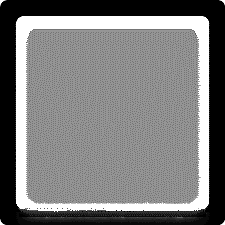
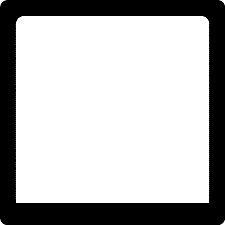
FB-NS-011

diff --git a/View/StartConditionView.xaml b/View/StartConditionView.xaml
@@ -20,9 +20,12 @@
                 <ColumnDefinition Width="auto"/>
             </Grid.ColumnDefinitions>
             <StackPanel Margin="50,0,0,0">
-                <StackPanel Orientation="Horizontal" HorizontalAlignment="Left" Margin="50,0,0,0" >
+                <StackPanel Orientation="Vertical" HorizontalAlignment="Left" Margin="50,0,0,0" >
                     <Label Grid.Column="1" HorizontalContentAlignment="Left" HorizontalAlignment="Left">
-                        <Run FontWeight="Bold" FontSize="21">Выполнение заданий позволит вам начать обучение</Run>
+                        <Run FontWeight="Bold" FontSize="21">Выполните задания и отметьте галочками в окошках около каждого пункта.</Run>
+                    </Label>
+                    <Label Grid.Column="1" HorizontalContentAlignment="Left" HorizontalAlignment="Left">
+                        <Run FontWeight="Bold" FontSize="21">После чего нажмите на кнопку далее.</Run>
                     </Label>
                 </StackPanel>
                 <StackPanel Focusable="False">

diff --git a/MainWindow.xaml b/MainWindow.xaml
@@ -410,12 +410,12 @@
                         <StackPanel Orientation="Horizontal">
                             <Button x:Name="soundButton" Click="soundButton_Click" ToolTip="Включить озвучку символов" HorizontalAlignment="Left" Margin="2,2" VerticalAlignment="Top" Width="30" Height="30">
                                 <StackPanel>
-                                    <Image  Source="Resources/soundOn.png"/>
+                                    <Image  Source="Resources/instructionOff.png"/>
                                 </StackPanel>
                             </Button>
                             <Button x:Name="instructionButton" Click="instructionButton_Click" ToolTip="Прослушать инструкцию" HorizontalAlignment="Right" Margin="5,2" VerticalAlignment="Top" Width="30" Height="30">
                                 <StackPanel>
-                                    <Image  Source="Resources/instructionOff.png"/>
+                                    <Image  Source="Resources/soundOn.png"/>
                                 </StackPanel>
                             </Button>
                         </StackPanel>

diff --git a/MainWindow.xaml.cs b/MainWindow.xaml.cs
@@ -13,6 +13,8 @@ using System.Collections.Generic;
 using System.Windows.Media;
 using System.Windows.Controls;
 using System.Diagnostics;
+using Tulpep.NotificationWindow;
+using System.Drawing;
 
 namespace NewSkills
 {
@@ -155,6 +157,15 @@ namespace NewSkills
             if (e.Key == Key.Space)
             {
                 anyKeyPressed = true;
+            }else if (Keyboard.IsKeyToggled(Key.CapsLock)) {
+                showPopUp("Capslock", "Активирована кнопка 'Capslock' \n\n Для выключения нажмите 'Capslock' еще раз");
+            }
+
+            string language = System.Windows.Forms.InputLanguage.CurrentInputLanguage.Culture.Name;
+
+            if (language != "ru-RU")
+            {
+                System.Windows.Forms.InputLanguage.CurrentInputLanguage = System.Windows.Forms.InputLanguage.FromCulture(new System.Globalization.CultureInfo("ru-RU"));
             }
         }
 
@@ -183,7 +194,6 @@ namespace NewSkills
             {
                 MessageBox.Show("Congratulation:" + ex.ToString());
             }
-
         }
 
         public void LoadView(ViewType typeView)
@@ -552,6 +562,38 @@ namespace NewSkills
             view.WindowStartupLocation = WindowStartupLocation.CenterScreen;
             view.Owner = Application.Current.MainWindow;
             view.Show();
+        }
+
+        private void showPopUp(string titel, string message) {
+
+            var popupNotifier = new PopupNotifier();
+            popupNotifier.TitleText = titel;
+            popupNotifier.ContentText = message;
+            popupNotifier.ContentFont = new System.Drawing.Font("Arial", 16F);
+            popupNotifier.HeaderColor = System.Drawing.Color.FromArgb(252, 164, 2);
+            popupNotifier.BodyColor = System.Drawing.Color.FromArgb(153, 204, 255);
+            popupNotifier.Size = new System.Drawing.Size(500, 150);
+            popupNotifier.Scroll = true;
+            popupNotifier.Popup();
+
+
+            //PopupNotifier popup = new PopupNotifier();
+            //popup.Image = Properties.Resources.icons8_brake_warning_25px_1;
+            //popup.ContentFont = new System.Drawing.Font("Tahoma", 8F);
+            //popup.Size = new Size(400, 100);
+            //popup.ShowGrip = false;
+            //popup.HeaderHeight = 20;
+            //popup.TitlePadding = new Padding(3);
+            //popup.ContentPadding = new Padding(3);
+            //popup.ImagePadding = new Padding(8);
+            //popup.AnimationDuration = 1000;
+            //popup.AnimationInterval = 1;
+            //popup.HeaderColor = Color.FromArgb(252, 164, 2);
+            //popup.Scroll = true;
+            //popup.ShowCloseButton = false;
+            //popup.TitleText = "CRITICAL ITEM(S)";
+            //popup.ContentText = critical;
+            //popup.Popup();
         }
     }
 }

diff --git a/View/FirstUC.xaml.cs b/View/FirstUC.xaml.cs
@@ -39,6 +39,7 @@ namespace NewSkills.View
         private bool writeLetter = false;
         private int correctTextLenght = 0;
         private string fileName;
+        SoundPlayer sp; 
         public FirstUC(string fileName, MainWindow mainWindow)
         {
             InitializeComponent();
@@ -236,10 +237,8 @@ namespace NewSkills.View
                             {
                                 try
                                 {
-                                  
+                                    stopSound(sp);
                                     mainWindow.RunTimer = false;
-                                    //UtilController.BlockTextFieldAndTimer = true;
-                                    //this.typingTextTxt.IsReadOnly = true;
                                     mainWindow.progress.Content = UtilController.getProgressInPercent(fileLineNumber, fileLength);
                                     CongratulationWindow congratulationWindow = new CongratulationWindow(mainWindow,fileName);
                                     congratulationWindow.WindowStartupLocation = WindowStartupLocation.CenterScreen;
@@ -264,8 +263,12 @@ namespace NewSkills.View
             catch (Exception exception)
             {
                 MessageBox.Equals(exception, exception);
-                // streamReaderController.writeLogs(this.GetType().Name, exception);
             }
+        }
+
+        private void stopSound(SoundPlayer sp)
+        {
+            sp.Stop();
         }
 
         private char lastLetterBeforeClickSpace(string typingText)
@@ -362,15 +365,13 @@ namespace NewSkills.View
                             mainWindow.progress.Content = "100";
 
                         }
-                        return streamReaderController.file[fileLineNumber].First();
+                        return streamReaderController.file[fileLineNumber+1].First();
                     }
                 }
                 return '*';
             }
             catch (Exception e)
             {
-
-                MessageBox.Show("exception:" + e.ToString());
                 return '*';
             }
         }
@@ -452,7 +453,7 @@ namespace NewSkills.View
 
         private void voiceMessages(UnmanagedMemoryStream resourcesPath)
         {
-            SoundPlayer sp = new SoundPlayer();
+            sp = new SoundPlayer();
             sp.Stream = resourcesPath;
             sp.Play();
         }

diff --git a/Properties/Resources.Designer.cs b/Properties/Resources.Designer.cs
@@ -3697,5 +3697,15 @@ namespace NewSkills.Properties {
                 return ((System.Drawing.Bitmap)(obj));
             }
         }
+        
+        /// <summary>
+        ///   Looks up a localized resource of type System.Drawing.Bitmap.
+        /// </summary>
+        public static System.Drawing.Bitmap warningIcon {
+            get {
+                object obj = ResourceManager.GetObject("warningIcon", resourceCulture);
+                return ((System.Drawing.Bitmap)(obj));
+            }
+        }
     }
 }

diff --git a/View/LicenseWindow.xaml.cs b/View/LicenseWindow.xaml.cs
@@ -29,8 +29,6 @@ namespace NewSkills.View
 
             this.mainWindow = mainWindow;
             GetCPUId();
-
-
         }
 
         private void licenseCodeOne_ChangeEvent(object sender, TextChangedEventArgs e)
@@ -104,7 +102,6 @@ namespace NewSkills.View
 
         private void GetCPUId()
         {
-
             ManagementObjectSearcher searcher = new ManagementObjectSearcher("select ProcessorId from Win32_Processor");
             foreach (ManagementObject mj in searcher.Get())
             {

diff --git a/View/StartConditionView.xaml.cs b/View/StartConditionView.xaml.cs
@@ -52,6 +52,7 @@ namespace NewSkills.View
             this.mainWindow.Home.Visibility = Visibility.Hidden;
             this.mainWindow.Books.Visibility = Visibility.Hidden;
             this.mainWindow.Settings.Visibility = Visibility.Hidden;
+            this.mainWindow.soundButton.Visibility = Visibility.Hidden;
 
             BtnForward.IsEnabled = false;
         }
